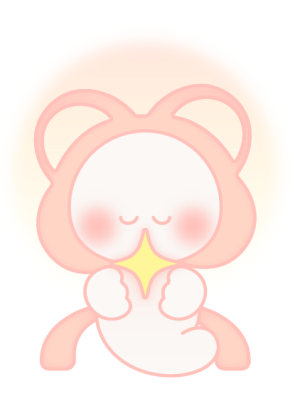
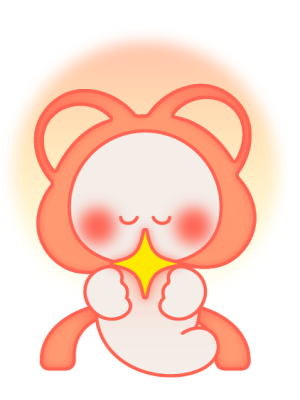
main change

diff --git a/landing.html b/landing.html
@@ -29,12 +29,12 @@
 
         .container {
             width: 340px;
-            height: 100vh;
-            background: url('/logo.png') no-repeat center center;
+            height: 50vh;
+            background: url('/main.png') no-repeat center center;
             background-size: contain;
             display: flex;
             flex-direction: column;
-            justify-content: center;
+            justify-content: flex-start;
             align-items: center;
             color: white;
             text-align: center;
